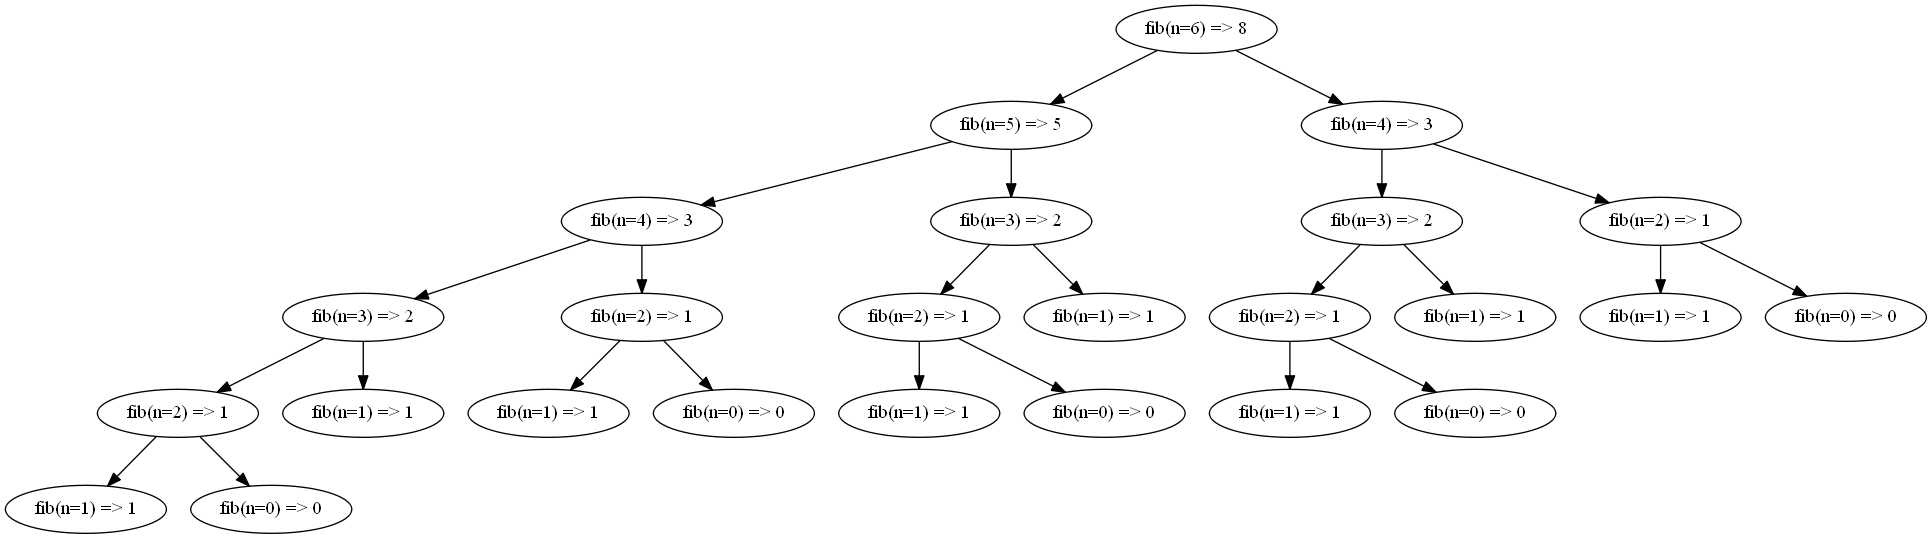
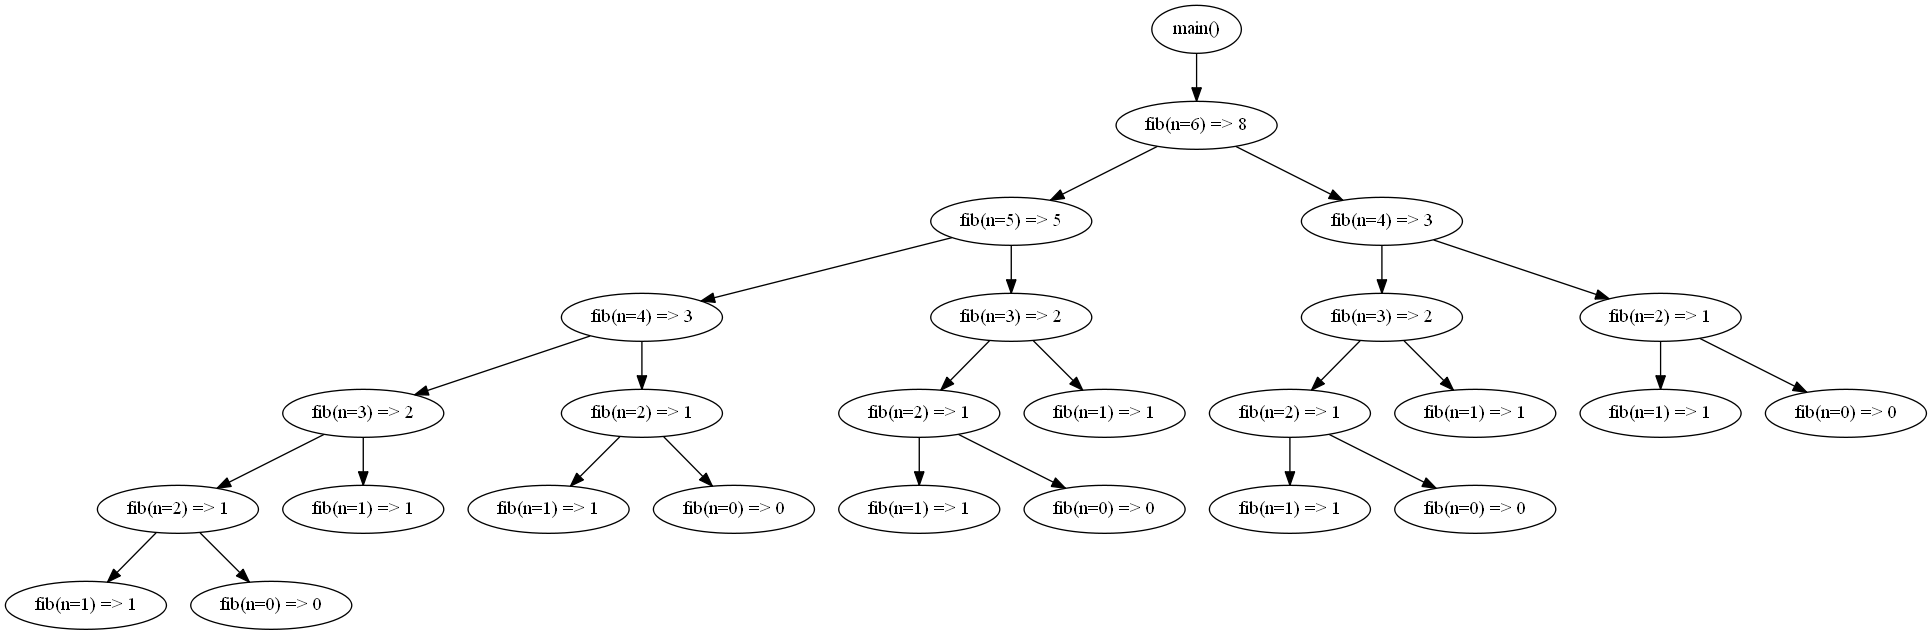
Update Examples

diff --git a/visualiser/visualiser.py b/visualiser/visualiser.py
@@ -108,7 +108,7 @@ class Visualiser(object):
             self.graph.add_node(child_node)
 
             # If the function is called by another function
-            if caller_function_name != '<module>':
+            if caller_function_name not in ['<module>', 'main']:
                 print(f"Called {current_function_label} by {caller_func_label}")
 
                 parent_node = pydot.Node(name=caller_func_signature, label=caller_func_label)
@@ -117,3 +117,25 @@ class Visualiser(object):
                 self.graph.add_edge(edge)
             return result
         return wrapper
+
+@Visualiser(ignore_args=["node_num"])
+def fib(n, node_num):
+    if n <= 1:
+        return n
+    Visualiser.node_count += 1
+    left = fib(n=n - 1, node_num=Visualiser.node_count)
+
+    Visualiser.node_count += 1
+    right = fib(n=n - 2, node_num=Visualiser.node_count)
+    return left + right
+
+def main():
+    # Call function
+    print(fib(n=6, node_num=0))
+
+    # Save recursion tree to a file
+    Visualiser.write_image("fibonacci.png")
+
+
+if __name__ == "__main__":
+    main()

diff --git a/examples/fibonacci.py b/examples/fibonacci.py
@@ -17,9 +17,13 @@ def fib(n, node_num):
     right = fib(n=n - 2, node_num=vs.node_count)
     return left + right
 
-if __name__ == "__main__":
+def main():
     # Call function
     print(fib(n=6, node_num=0))
 
     # Save recursion tree to a file
     vs.write_image("fibonacci.png")
+
+
+if __name__ == "__main__":
+    main()

diff --git a/README.md b/README.md
@@ -34,30 +34,37 @@ def fib(n):
   
 Now we want to draw the recursion tree for this function. It is as simple as adding a decorator  
 ```python  
-# Author: Bishal Sarang  
-  
-# Import Visualiser class from visualiser.visualiser module
-from visualiser.visualiser import Visualiser as vs 
-  
-# Add decorator  
-# Decorator accepts arguments: ignore_args and show_argument_name  
-@vs(ignore_args=['node_num'])  
-def fib(n, node_num):  
-	if n <= 1: 
-		return n     
-	# Increment decorator class node_count before each function calls  
-	vs.node_count += 1 
-	left = fib(n=n - 1, node_num=vs.node_count)  
-	
-    # node_count is incremented  
-	vs.node_count += 1 right = fib(n=n - 2, node_num=vs.node_count)  
-	return left + right  
+# Author: Bishal Sarang
 
-# Call function  
-print(fib(n=6, node_num=0))  
-  
-# Save recursion tree to a file  
-vs.write_image("fibonacci.png")  
+# Import Visualiser class from module visualiser
+from visualiser.visualiser import Visualiser as vs
+
+
+# Add decorator
+# Decorator accepts arguments: ignore_args and show_argument_name
+@vs(ignore_args=['node_num'])
+def fib(n, node_num):
+    if n <= 1:
+        return n
+    # Increment node count
+    vs.node_count += 1
+    left = fib(n=n - 1, node_num=vs.node_count)
+    
+    # Increment node count
+    vs.node_count += 1
+    right = fib(n=n - 2, node_num=vs.node_count)
+    return left + right
+
+def main():
+    # Call function
+    print(fib(n=6, node_num=0))
+
+    # Save recursion tree to a file
+    vs.write_image("fibonacci.png")
+
+
+if __name__ == "__main__":
+    main()
 ```  
 Here are the changes required:  
   
